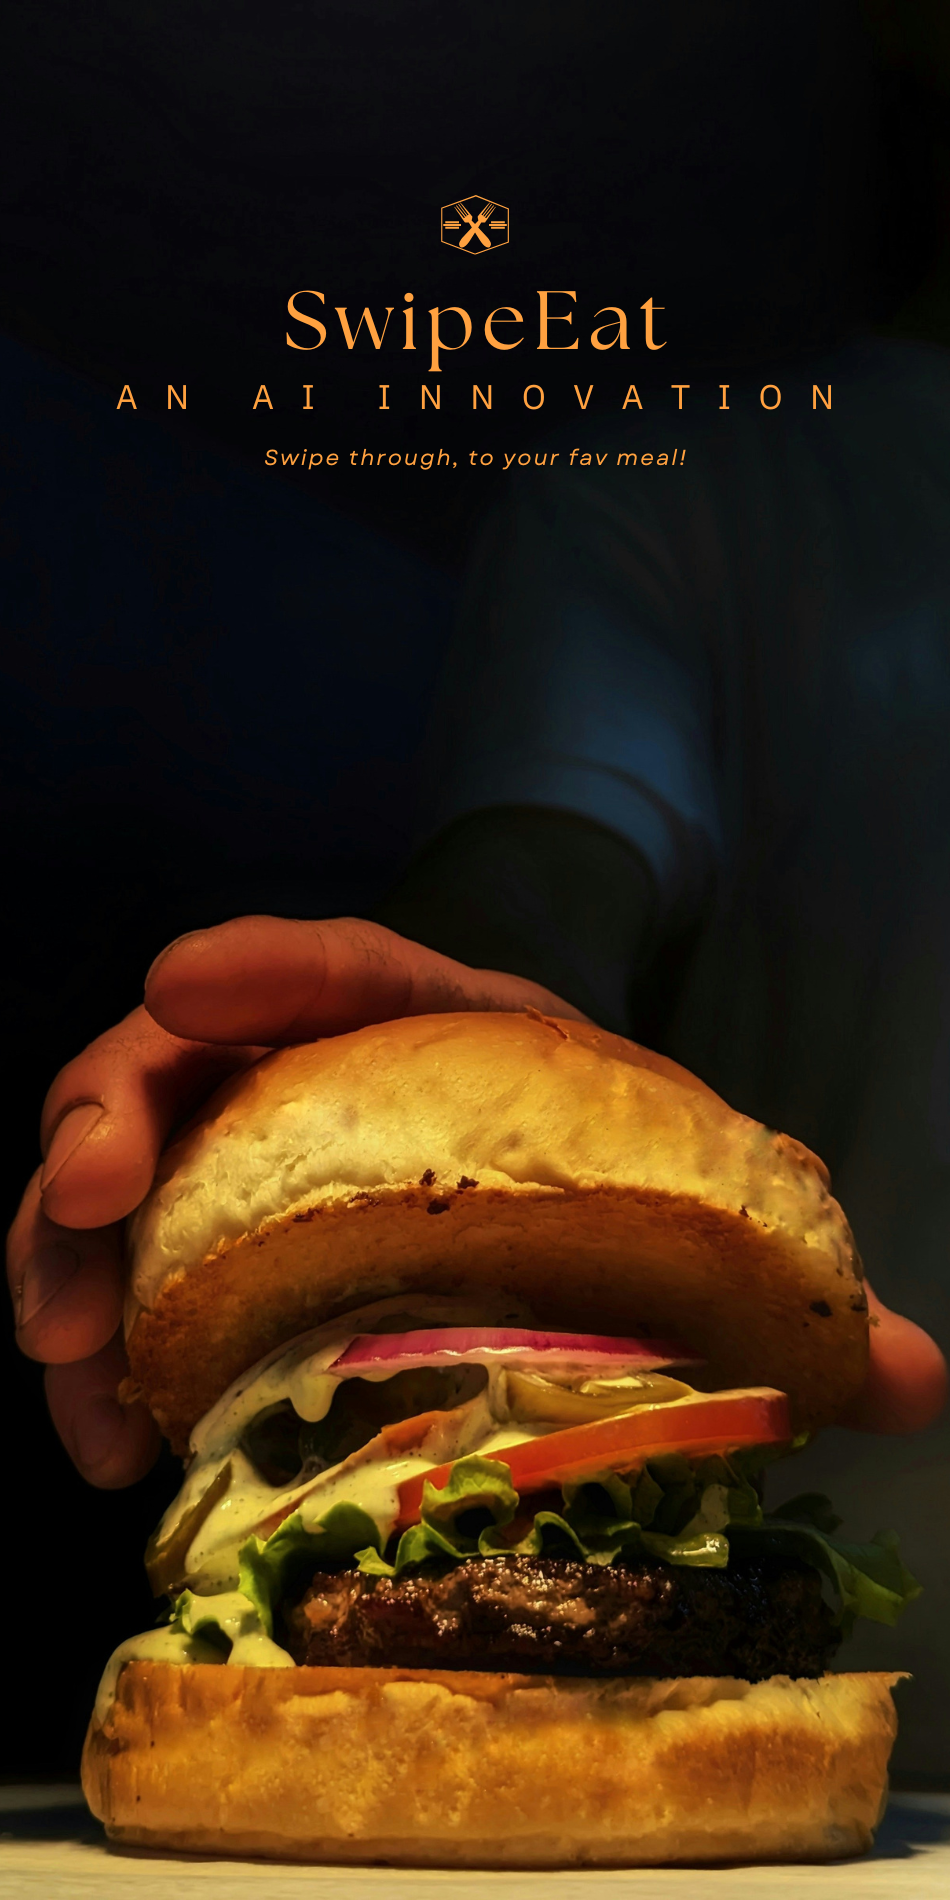
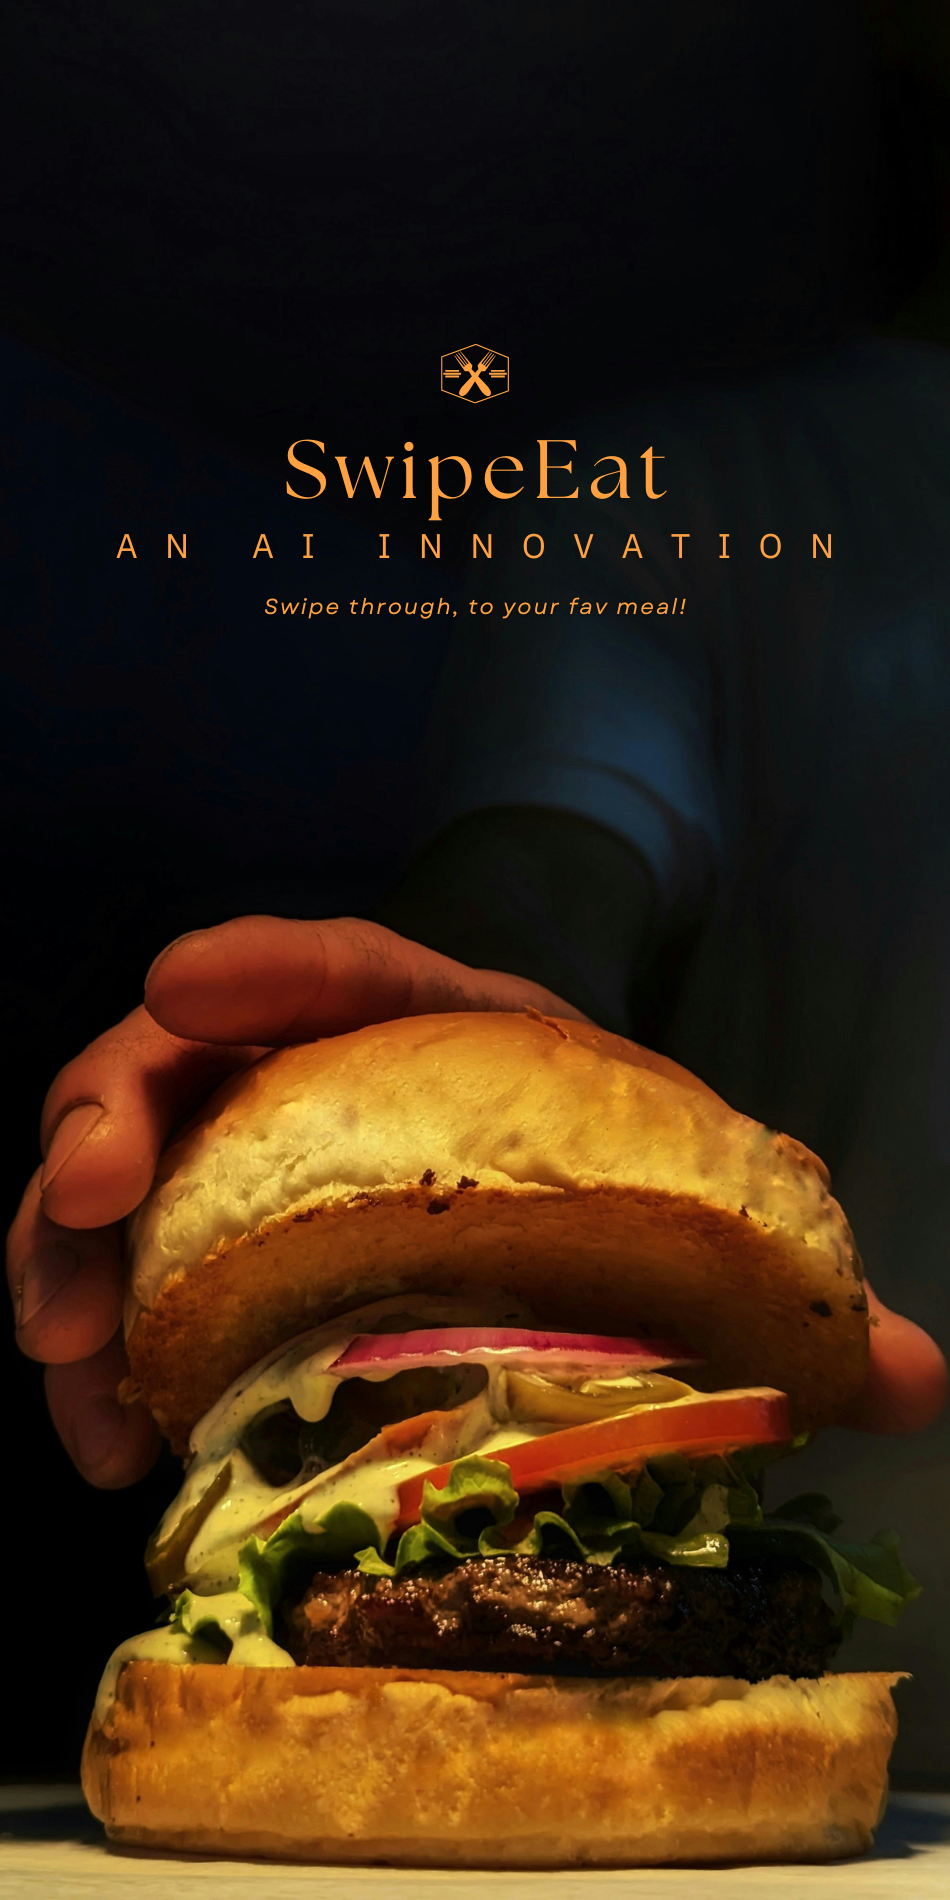
update

diff --git a/templates/landingpage.html b/templates/landingpage.html
@@ -96,7 +96,7 @@
     /* Fixed Try it Out Button - Visible only on the first page */
     .try-button-fixed {
       position: fixed;
-      bottom: 300px;
+      bottom: 10%;
       left: 50%;
       transform: translateX(-50%);
       z-index: 1100;
@@ -342,7 +342,7 @@
   <!-- Hero Section with Responsive Background Image -->
   <section id="hero" class="section hero">
     <div class="hero-image-container">
-      <img src="static/meal_images/Landing Welcome.png" alt="Landing Background" class="hero-bg" loading="lazy">
+      <img src="static\meal_images\Landing Welcome.png" alt="Landing Background" class="hero-bg" loading="lazy">
       <div class="hero-content">
         <!-- Optional headline can go here if desired -->
         <div class="try-button-fixed">
